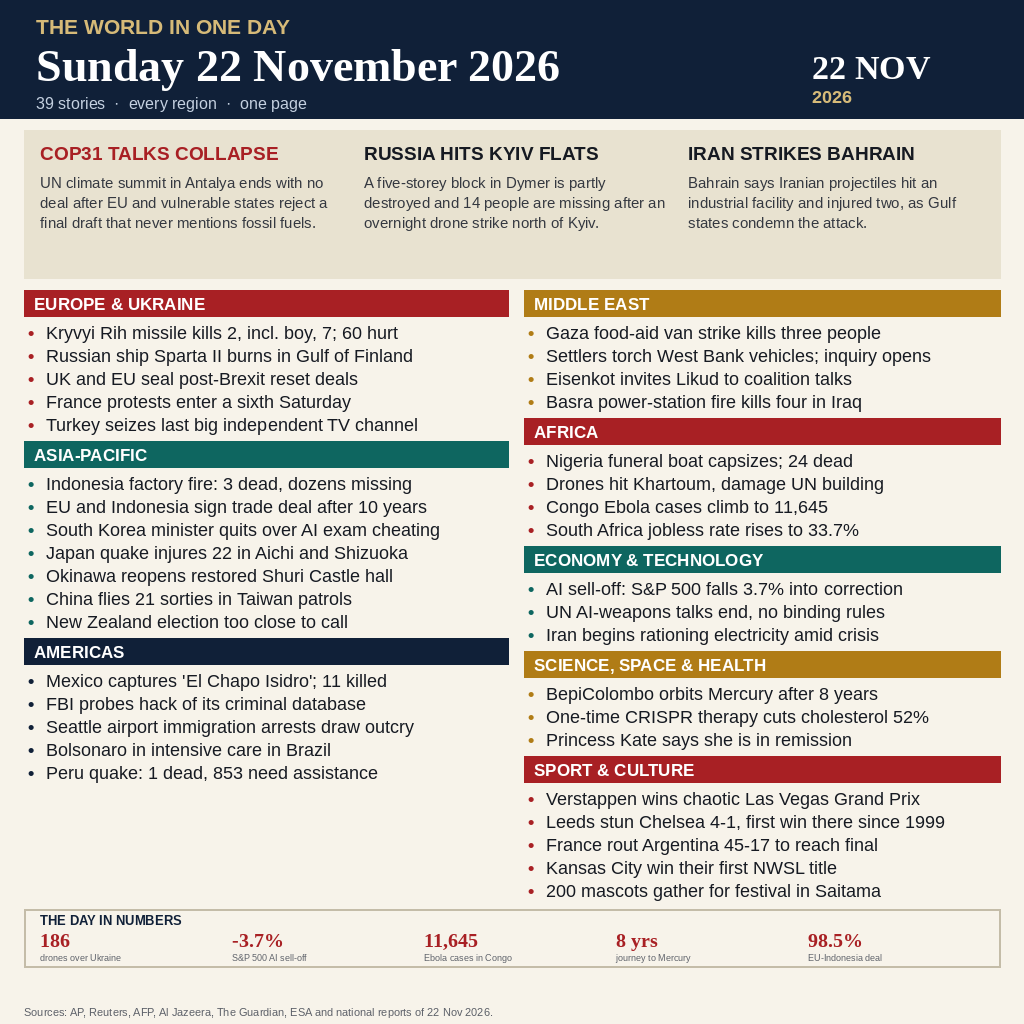
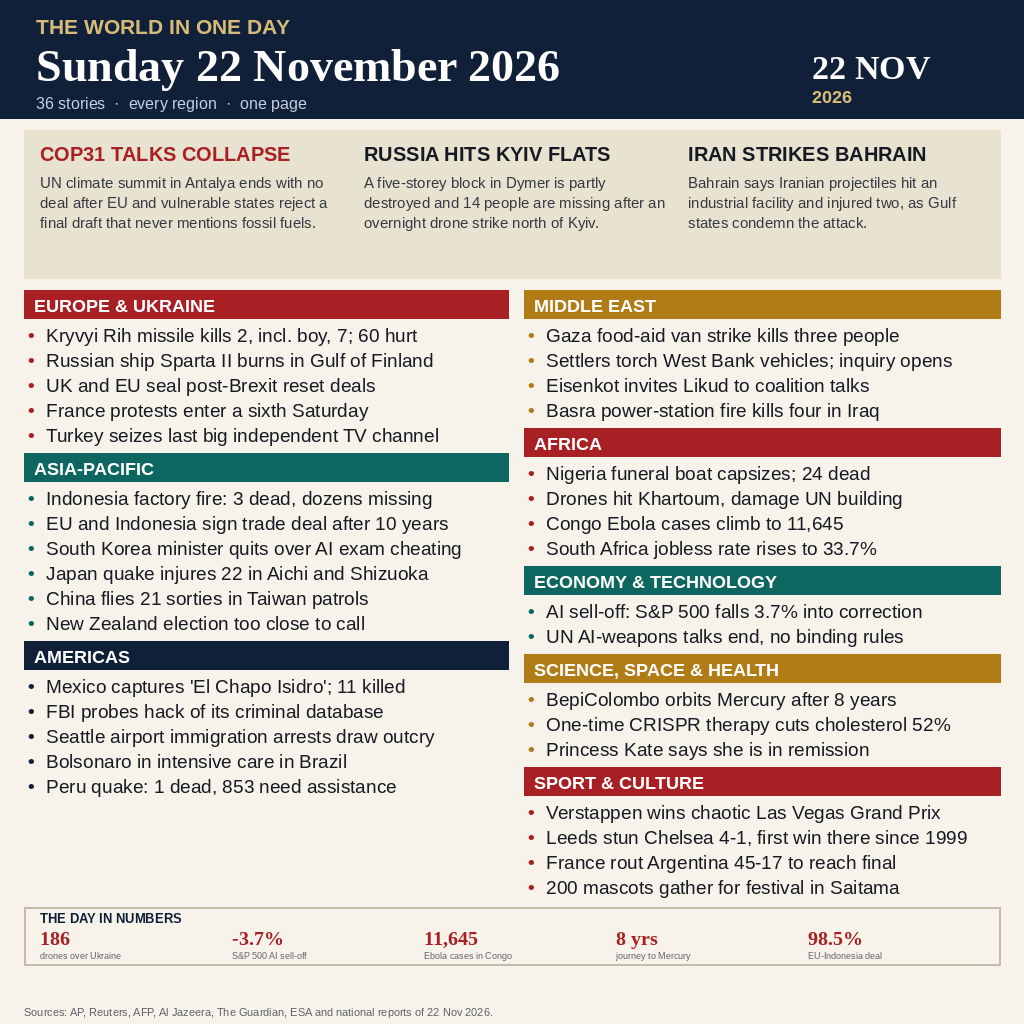
v2: roomier layout, 19px story lines, 36 stories

diff --git a/build_image.py b/build_image.py
@@ -1,12 +1,12 @@
 """Render the 22 November 2026 world-news front page to entry.png.
 
-One 1024x1024 image, 39 stories reported on Sunday 22 November 2026,
+One 1024x1024 image, 36 stories reported on Sunday 22 November 2026,
 grouped by region and field. All text is drawn programmatically with
 Pillow from the story lists below, so no lettering can be garbled.
 The render is deterministic: fixed palette, fixed fonts, no clock,
 no randomness, no network. Running it twice writes identical bytes.
-Final layout: balanced two columns, 18px story lines, short labels
-in the numbers strip so nothing overflows the page.
+Final layout: balanced two columns, 19px story lines on a 25px
+leading, three softest stories cut so the page breathes.
 """
 
 from pathlib import Path
@@ -56,7 +56,6 @@ SECTIONS_LEFT = [
         "EU and Indonesia sign trade deal after 10 years",
         "South Korea minister quits over AI exam cheating",
         "Japan quake injures 22 in Aichi and Shizuoka",
-        "Okinawa reopens restored Shuri Castle hall",
         "China flies 21 sorties in Taiwan patrols",
         "New Zealand election too close to call",
     ]),
@@ -85,7 +84,6 @@ SECTIONS_RIGHT = [
     ("ECONOMY & TECHNOLOGY", TEAL, [
         "AI sell-off: S&P 500 falls 3.7% into correction",
         "UN AI-weapons talks end, no binding rules",
-        "Iran begins rationing electricity amid crisis",
     ]),
     ("SCIENCE, SPACE & HEALTH", GOLD, [
         "BepiColombo orbits Mercury after 8 years",
@@ -96,7 +94,6 @@ SECTIONS_RIGHT = [
         "Verstappen wins chaotic Las Vegas Grand Prix",
         "Leeds stun Chelsea 4-1, first win there since 1999",
         "France rout Argentina 45-17 to reach final",
-        "Kansas City win their first NWSL title",
         "200 mascots gather for festival in Saitama",
     ]),
 ]
@@ -111,13 +108,13 @@ NUMBERS = [
 
 
 def draw_section(draw, x, y, width, title, colour, items):
-    draw.rectangle([x, y, x + width, y + 26], fill=colour)
-    draw.text((x + 10, y + 4), title, font=font(SANS_B, 17), fill=(255, 255, 255))
-    y += 32
+    draw.rectangle([x, y, x + width, y + 28], fill=colour)
+    draw.text((x + 10, y + 5), title, font=font(SANS_B, 18), fill=(255, 255, 255))
+    y += 34
     for item in items:
-        draw.text((x + 4, y), "\u2022", font=font(SANS_B, 18), fill=colour)
-        draw.text((x + 22, y), item, font=font(SANS, 18), fill=INK)
-        y += 23
+        draw.text((x + 4, y), "\u2022", font=font(SANS_B, 19), fill=colour)
+        draw.text((x + 22, y), item, font=font(SANS, 19), fill=INK)
+        y += 25
     return y + 4
 
 
@@ -129,7 +126,7 @@ def main():
     draw.rectangle([0, 0, W, 118], fill=NAVY)
     draw.text((36, 14), "THE WORLD IN ONE DAY", font=font(SANS_B, 21), fill=(214, 186, 120))
     draw.text((36, 40), "Sunday 22 November 2026", font=font(SERIF_B, 46), fill=(255, 255, 255))
-    draw.text((36, 94), "39 stories  \u00b7  every region  \u00b7  one page", font=font(SANS, 16), fill=(196, 208, 224))
+    draw.text((36, 94), "36 stories  \u00b7  every region  \u00b7  one page", font=font(SANS, 16), fill=(196, 208, 224))
     draw.text((812, 48), "22 NOV", font=font(SERIF_B, 34), fill=(255, 255, 255))
     draw.text((812, 86), "2026", font=font(SANS_B, 18), fill=(214, 186, 120))
 
@@ -140,7 +137,7 @@ def main():
     col_w = 312
     for i, (head, body) in enumerate(LEAD):
         x = lx + i * (col_w + 12)
-        draw.text((x, y + 12), head, font=font(SANS_B, 19), fill=RED if i == 0 else INK)
+        draw.text((x, y + 12), head, font=font(SANS_B, 20), fill=RED if i == 0 else INK)
         # wrap body by hand: split into lines of ~34 chars using simple wrap
         words = body.split()
         lines, cur = [], ""
